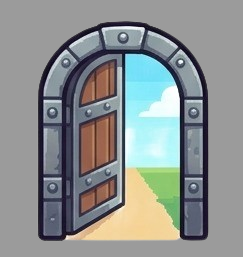
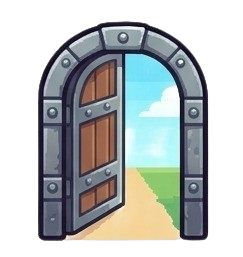
commented laser trap

diff --git a/frontend/src/app/game/components/heist-modal/heist-modal.component.html b/frontend/src/app/game/components/heist-modal/heist-modal.component.html
@@ -15,14 +15,14 @@
           <span class="stat-label">Time Taken</span>
           <span class="stat-value">{{ stats.timeTaken }}</span>
         </div>
-        <div class="stat-row">
+        <!-- <div class="stat-row">
           <span class="stat-label">CCTV Alerts</span>
           <span class="stat-value">{{ stats.cctvAlerts }}</span>
         </div>
         <div class="stat-row">
           <span class="stat-label">Traps Hit</span>
           <span class="stat-value">{{ stats.trapsHit }}</span>
-        </div>
+        </div> -->
       </div>
     </div>
 

diff --git a/frontend/src/app/game/components/trap/trap.component.html b/frontend/src/app/game/components/trap/trap.component.html
@@ -1,11 +1,11 @@
 <div class="trap-zone" *ngIf="gameMap">
-  <div
+  <!-- <div
     class="trap-cell"
     *ngFor="let cell of laserTrapCells"
     [ngStyle]="getTrapStyle(cell)"
   >
     <img [src]="'/assets/images/' + getLaserImageFor(cell)" alt="Laser trap">
-  </div>
+  </div> -->
 
   <div
     class="trap-cell"
